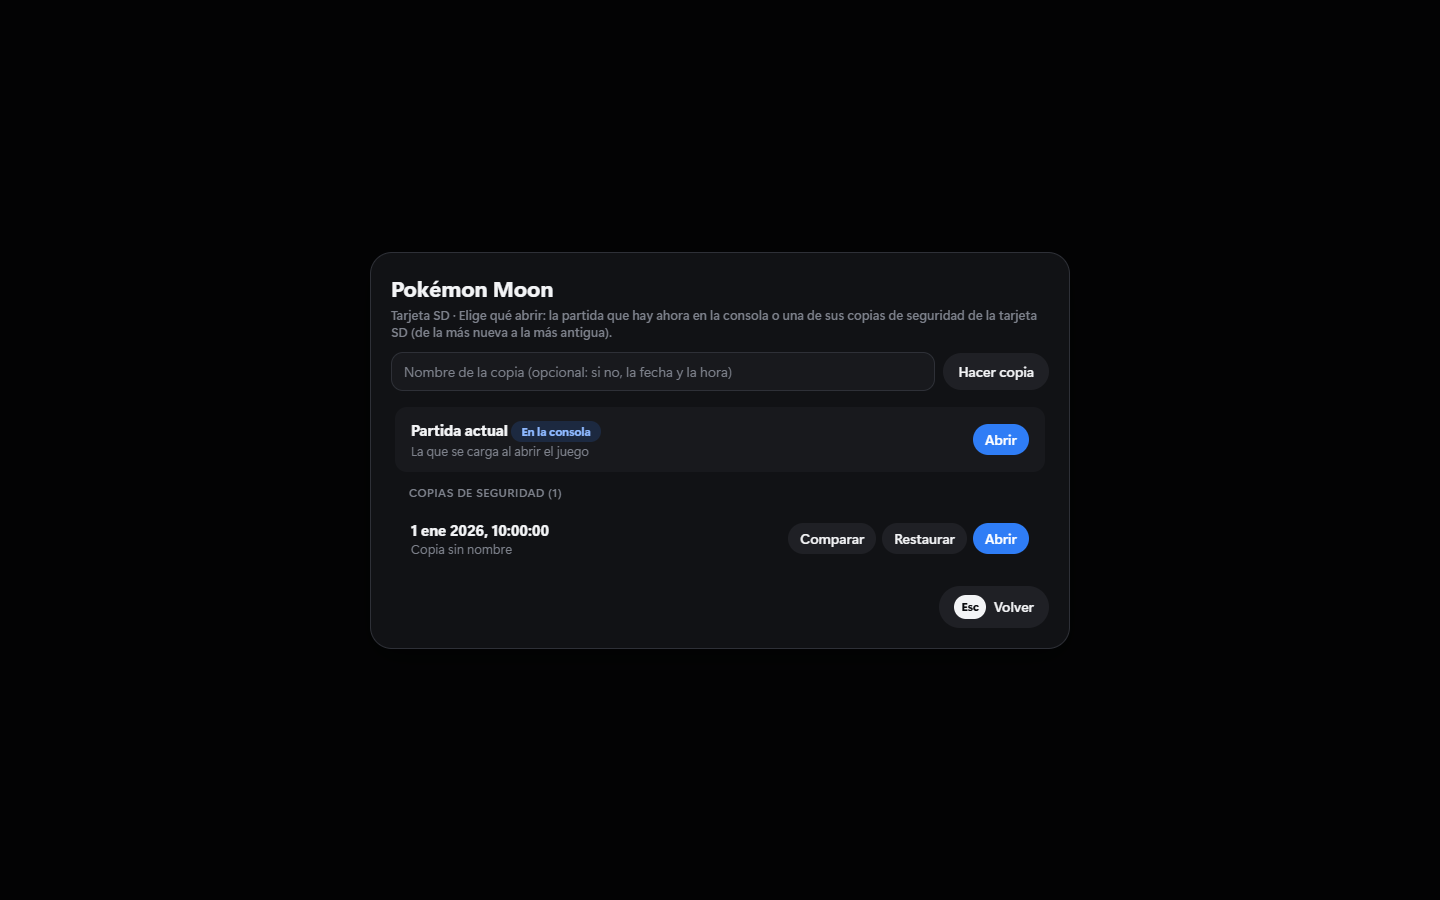
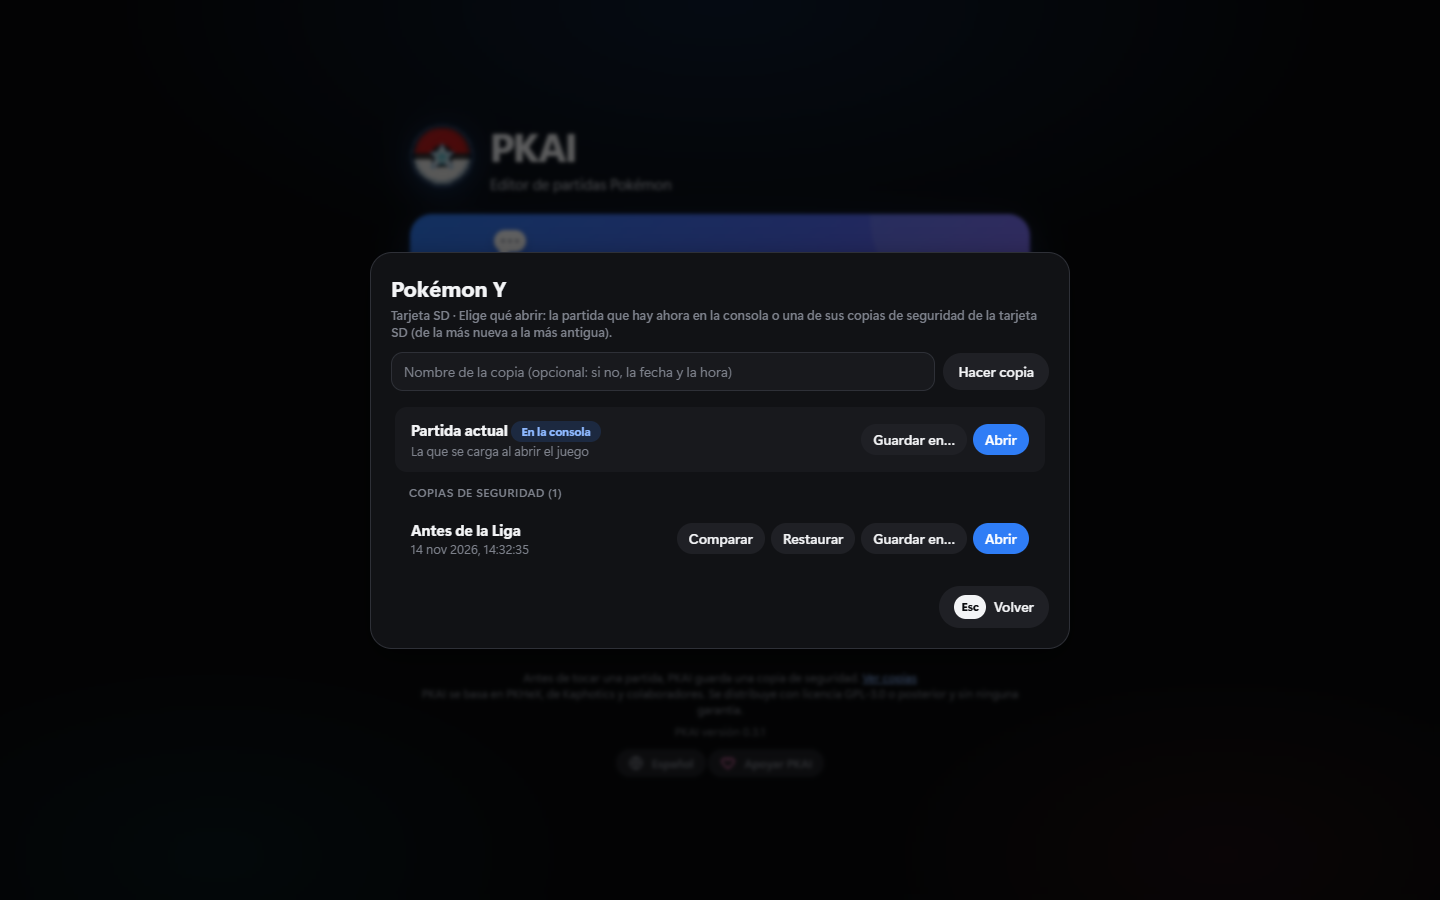
PKAI 0.3.2: «Guardar en…» para copiar la partida de la consola a una carpeta, con capturas nuevas

diff --git a/docs/PKAI-Link.md b/docs/PKAI-Link.md
@@ -78,12 +78,12 @@ Después, ábrelo desde el menú HOME.
 1. Abre PKAI Link en la consola. En su pantalla verás la **dirección**, el **puerto** y un **código** de 6 cifras.
 2. En el inicio de PKAI (PC o móvil), pulsa **Switch** o **3DS**. PKAI encuentra la consola sola en tu wifi y pone su dirección: solo tienes que escribir el código y pulsar **Conectar**.
    * Si no la encuentra (por ejemplo, con PKAI Link 0.2.5 o anterior, o con algunas wifi de invitados), escribe tú la dirección que sale en su pantalla.
-3. Verás tus partidas. **Abrir** la trae a PKAI; **Copias…** enseña sus copias de seguridad.
+3. Verás tus partidas. **Abrir** la trae a PKAI; **Copias…** enseña sus copias de seguridad; **Guardar en…** la copia a una carpeta de tu PC o de tu móvil (la de tu emulador, la de otro editor o la que quieras), con su nombre de siempre (`main`, `partida.sav`…). La partida de la consola no cambia, y si en esa carpeta ya había un archivo con el mismo nombre, se queda como `.anterior`.
 
 <table>
   <tr>
     <td width="50%"><img src="imagenes/pkai-consola.png" alt="Las partidas de la consola en PKAI"><br><sub>Las partidas de la consola, vistas desde PKAI.</sub></td>
-    <td width="50%"><img src="imagenes/pkai-consola-copias.png" alt="Las copias de una partida en PKAI"><br><sub>Abrir la partida actual o una copia, comparar y restaurar.</sub></td>
+    <td width="50%"><img src="imagenes/pkai-consola-copias.png" alt="Las copias de una partida en PKAI"><br><sub>Abrir la partida actual o una copia, comparar, restaurar o guardarla en una carpeta.</sub></td>
   </tr>
 </table>
 
@@ -110,7 +110,7 @@ sdmc:/PKAI/
 
 - En la Switch, cada copia lleva delante el **usuario** de la consola; en la 3DS, la del cartucho lleva «Cartucho - ».
 - Detrás va la fecha y, si se lo pusiste, su nombre.
-- Desde PKAI puedes **abrir** cualquier copia, **compararla** con la partida actual o **restaurarla** en la consola (antes se guarda una copia de la actual).
+- Desde PKAI puedes **abrir** cualquier copia, **compararla** con la partida actual, **restaurarla** en la consola (antes se guarda una copia de la actual) o **guardarla** en una carpeta de tu PC o de tu móvil.
 
 <table>
   <tr>
